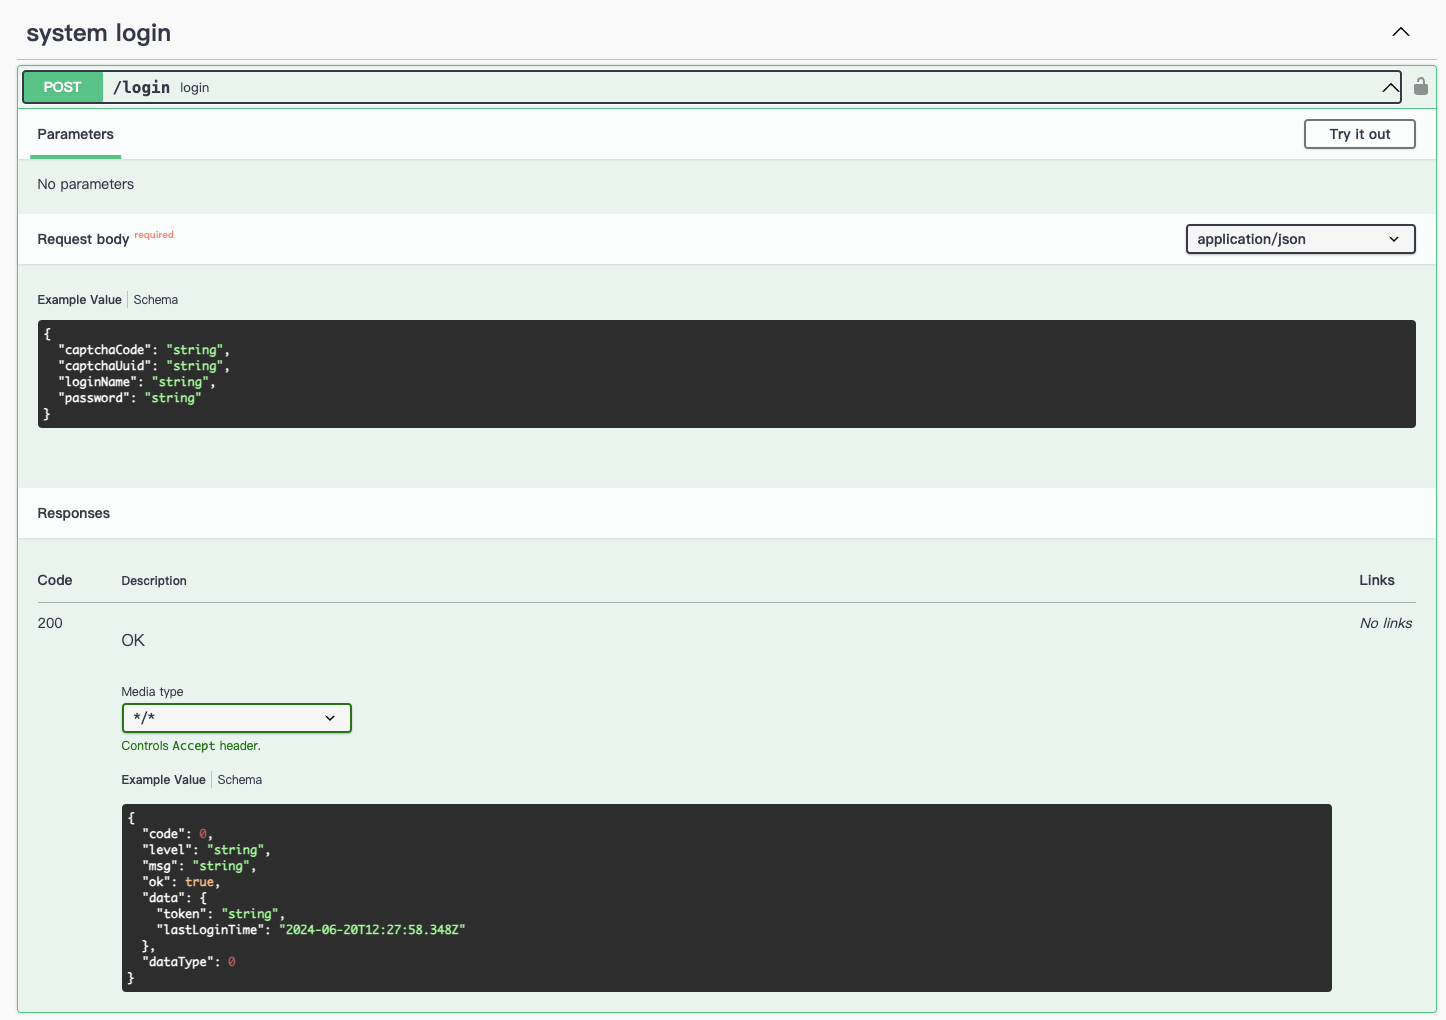
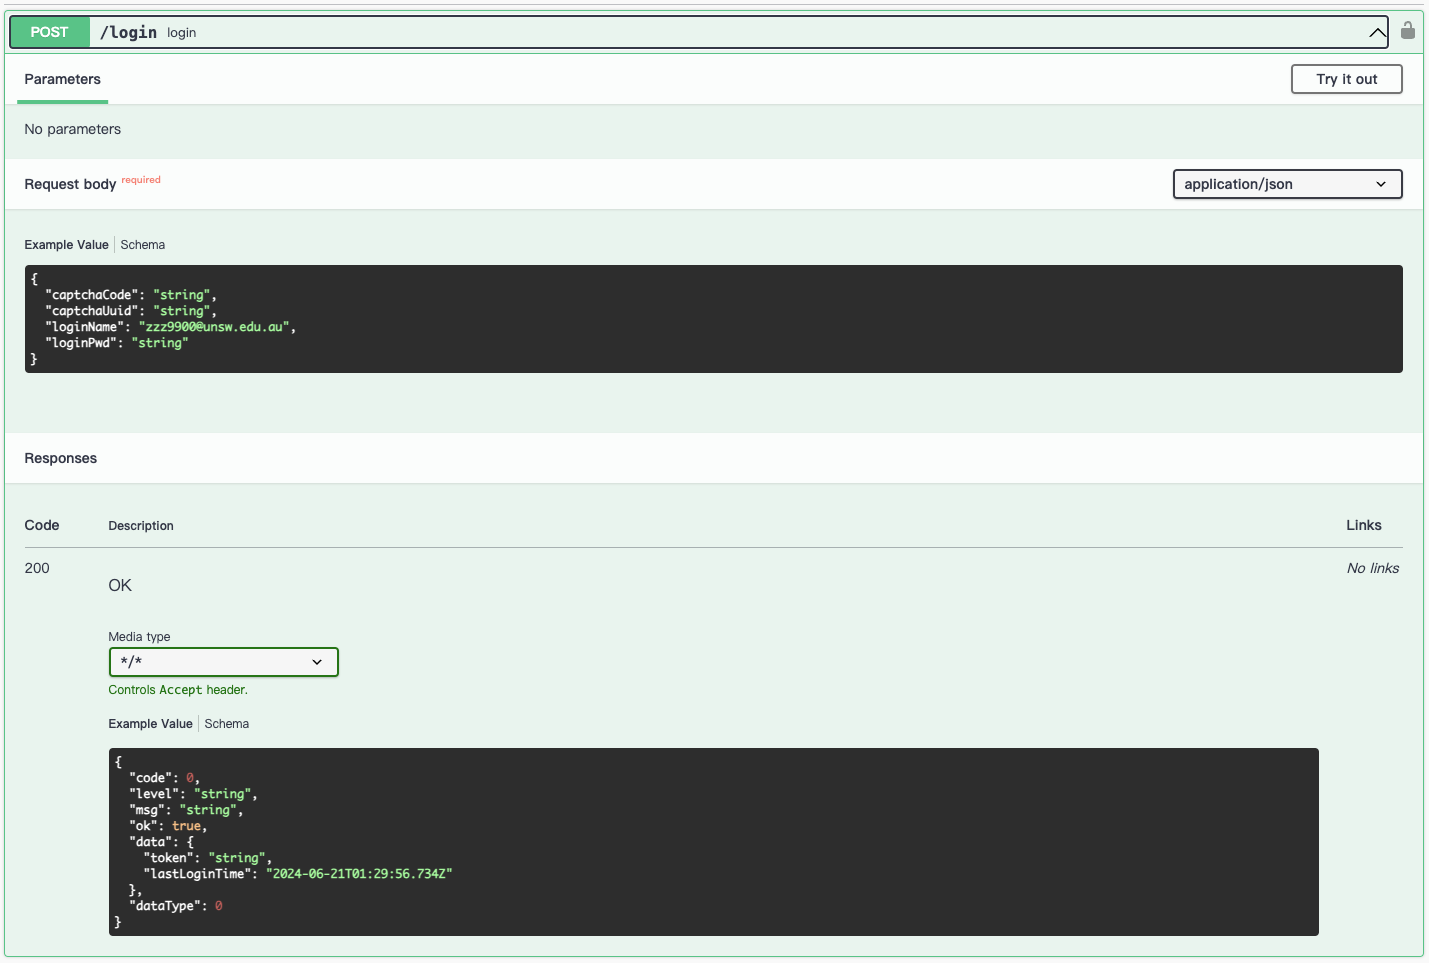
[MODIFY] modify the pattern for email regexp and add description for API function to README.md

diff --git a/platform/src/main/java/com/zzz/platform/api/login/service/LoginService.java b/platform/src/main/java/com/zzz/platform/api/login/service/LoginService.java
@@ -39,7 +39,7 @@ public class LoginService {
     /**
      * Secondary Cache for Login Information
      */
-    private final ConcurrentMap<Long, RequestUser> loginEmployeeCache = new ConcurrentLinkedHashMap.Builder<Long, RequestUser>().maximumWeightedCapacity(CACHE_MAX_ONLINE_PERSON_COUNT).build();
+    private final ConcurrentMap<Long, RequestUser> loginUserCache = new ConcurrentLinkedHashMap.Builder<Long, RequestUser>().maximumWeightedCapacity(CACHE_MAX_ONLINE_PERSON_COUNT).build();
 
     @Resource
     private CaptchaService captchaService;
@@ -74,7 +74,7 @@ public class LoginService {
             return ResponseDTO.userErrorParam("Login name does not exist! ");
         }
         // Decrypting front-end encrypted passwords
-        String requestPassword = protectedPasswordService.decryptPassword(loginForm.getPassword());
+        String requestPassword = protectedPasswordService.decryptPassword(loginForm.getLoginPwd());
 
         // Log-in failures were verified in accordance with the requirements for isochronous logins
         ResponseDTO<LoginFailEntity> loginFailEntityResponseDTO = protectLoginService.checkLogin(userEntity.getUserId(), UserTypeEnum.NORMAL);
@@ -99,7 +99,7 @@ public class LoginService {
         requestUser.setIp(ip);
         requestUser.setUserAgent(userAgent);
         // save in cache
-        loginEmployeeCache.put(userEntity.getUserId(), requestUser);
+        loginUserCache.put(userEntity.getUserId(), requestUser);
 
         // remove failed login
         protectLoginService.removeLoginFail(userEntity.getUserId(), UserTypeEnum.NORMAL);
@@ -129,7 +129,7 @@ public class LoginService {
             return null;
         }
 
-        RequestUser requestUser = loginEmployeeCache.get(requestEmployeeId);
+        RequestUser requestUser = loginUserCache.get(requestEmployeeId);
         if (requestUser == null) {
             // user entity
             UserEntity userEntity = userService.getById(requestEmployeeId);
@@ -138,7 +138,7 @@ public class LoginService {
             }
 
             requestUser = BeanUtils.copy(userEntity, RequestUser.class);
-            loginEmployeeCache.put(requestEmployeeId, requestUser);
+            loginUserCache.put(requestEmployeeId, requestUser);
         }
 
         // update request ip and user agent
@@ -174,7 +174,7 @@ public class LoginService {
         StpUtil.logoutByTokenValue(token);
 
         // clear login cache
-        loginEmployeeCache.remove(requestUser.getUserId());
+        loginUserCache.remove(requestUser.getUserId());
 
         log.info("User: {} logout.", requestUser.getUserId());
 

diff --git a/platform/src/main/java/com/zzz/platform/api/login/domain/LoginForm.java b/platform/src/main/java/com/zzz/platform/api/login/domain/LoginForm.java
@@ -1,10 +1,12 @@
 package com.zzz.platform.api.login.domain;
 
 import com.zzz.platform.api.login.domain.captcha.CaptchaForm;
+import com.zzz.platform.utils.VerificationUtil;
 import io.swagger.v3.oas.annotations.media.Schema;
 import lombok.Data;
 import org.hibernate.validator.constraints.Length;
 
+import javax.validation.constraints.Email;
 import javax.validation.constraints.NotBlank;
 
 /**
@@ -16,12 +18,13 @@ import javax.validation.constraints.NotBlank;
 public class LoginForm extends CaptchaForm {
 
 
-    @Schema(description = "login name")
+    @Schema(description = "login name", example = "zzz9900@unsw.edu.au")
     @NotBlank(message = "login name cannot be null")
     @Length(max = 30, message = "maximum 30")
+    @Email(regexp = VerificationUtil.EMAIL, message = "login name should be email address")
     private String loginName;
 
-    @Schema(description = "password")
+    @Schema(description = "login password")
     @NotBlank(message = "password cannot be null")
-    private String password;
+    private String loginPwd;
 }

diff --git a/platform/src/main/java/com/zzz/platform/api/login/service/ProtectedPasswordService.java b/platform/src/main/java/com/zzz/platform/api/login/service/ProtectedPasswordService.java
@@ -33,17 +33,12 @@ public class ProtectedPasswordService {
     private AesEncryptService aesEncryptService;
 
     /**
-     * validate password complexity
+     * validate password not empty
      *
      * @return
      */
     public ResponseDTO<String> validatePassComplexity(String password) {
-
         if (StringUtils.isEmpty(password)) {
-            return ResponseDTO.userErrorParam(PASSWORD_FORMAT_MSG);
-        }
-
-        if (!password.matches(PASSWORD_PATTERN)) {
             return ResponseDTO.userErrorParam(PASSWORD_FORMAT_MSG);
         }
 

diff --git a/platform/src/main/java/com/zzz/platform/service/AesEncryptService.java b/platform/src/main/java/com/zzz/platform/service/AesEncryptService.java
@@ -19,7 +19,7 @@ public class AesEncryptService {
 
     private static final String CHARSET = "UTF-8";
 
-    private static final String AES_KEY = "1024abcd1024abcd1024abcd1024abcd";
+    private static final String AES_KEY = "9900zzz9900zzz99zzz00";
 
     static {
         Security.addProvider(new BouncyCastleProvider());
